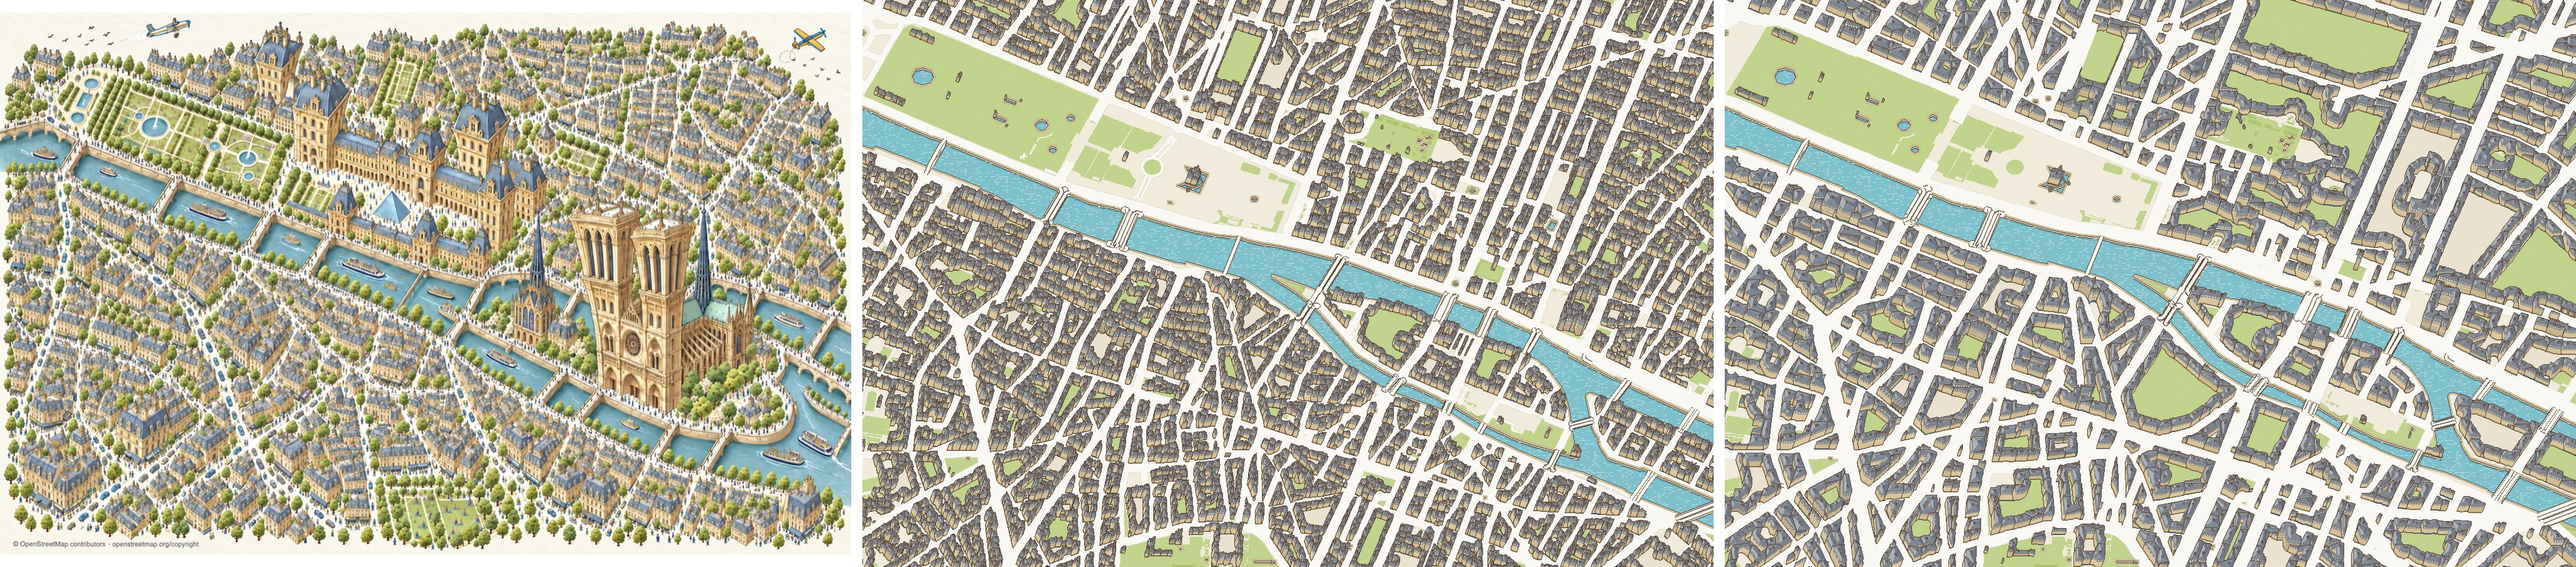
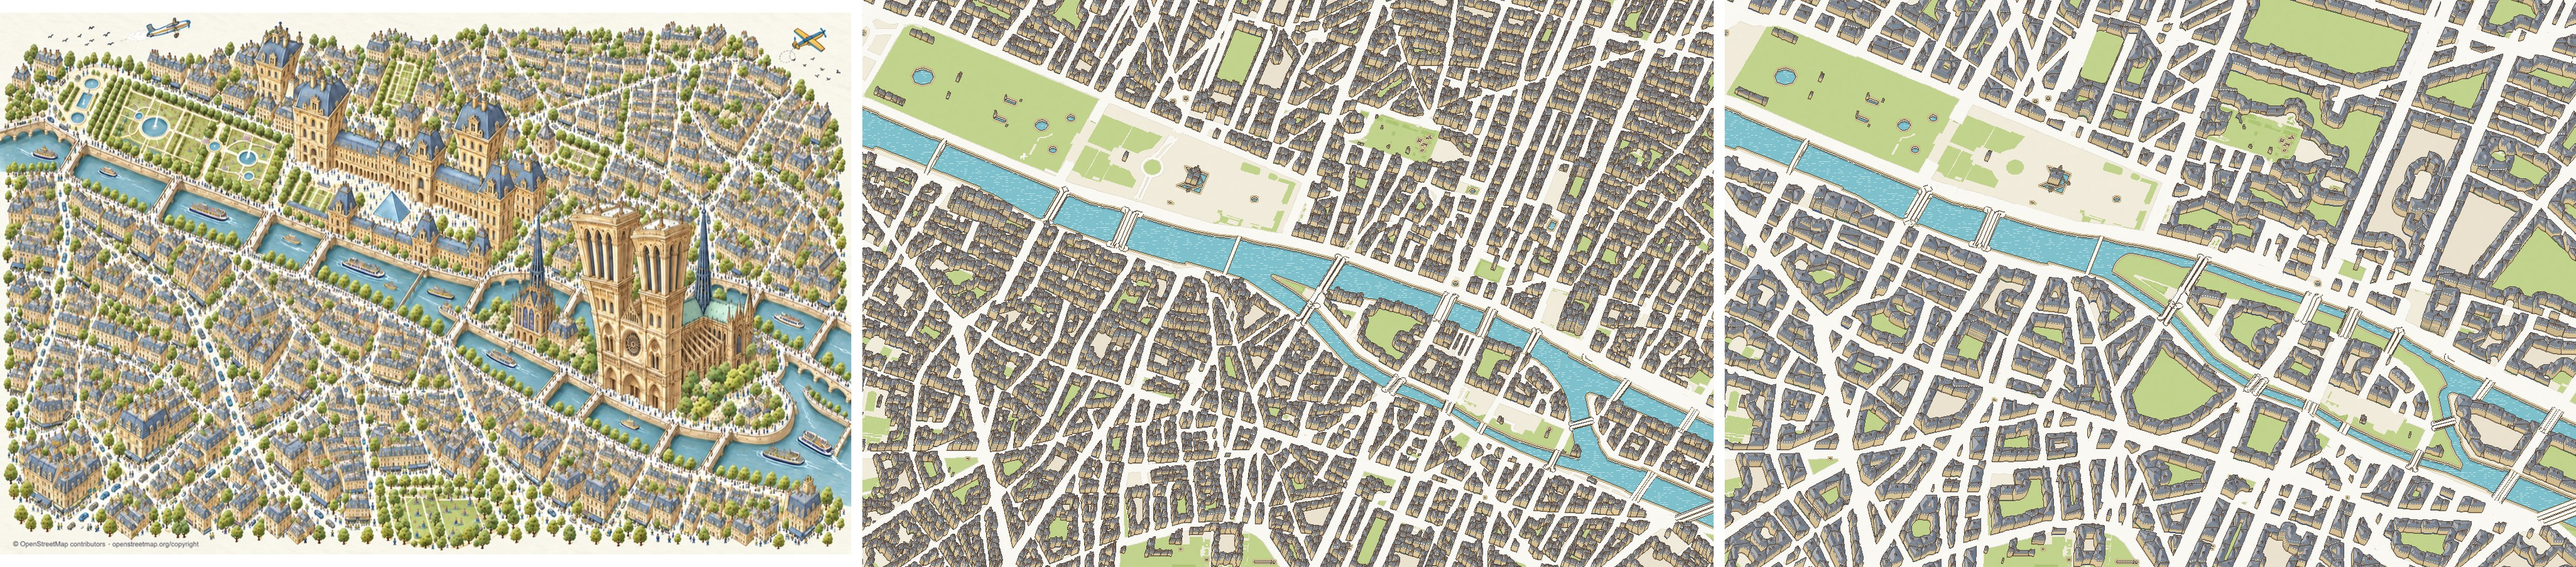
Karttaseppä → Codex: yleistyksen koepala v3 (Île de la Cité levennetty G:n tapaan, tarkka vesimaski; PT 08.2x)

Changed region(s): [[0.9047, 0.5625, 0.9671, 0.8438], [0.8111, 0.4375, 0.9047, 0.5625], [0.8423, 0.5625, 0.8735, 0.6562]]

diff --git a/posti/karttaseppa-codex-pariisi-yleistys-koepala-20261101.md b/posti/karttaseppa-codex-pariisi-yleistys-koepala-20261101.md
@@ -1,5 +1,7 @@
 # Karttaseppä → Codex: Pariisi, korttelien yleistys G:n tapaan: YKSI koepala G:n alueelta (1.11.2026)
 
+**PÄIVITYS klo 08.4x (PT 08.2x):** ohjekuvaksi vaihtui v3 (Cité levennetty) ja vesimaski tarkentui. Käytä vain v3:a.
+
 **Omistajan päätös 1.11. klo 08.07 (KK, PT 08.12):** omistaja vertasi G-kuvaa (`G-referenssi-owner-style-G-confirmed.jpg`)
 ja nykyistä pelikuvaa Citéstä. G on oikea suunta, ja nykyinen pelikuva ei ole hyvä. Linjaus:
 **talot isommiksi ja harvemmiksi korttelimassoiksi, kadut leveiksi ja valkoisiksi, pienet kujat pois, puut isoiksi riveiksi.**
@@ -12,9 +14,11 @@ G:n alue Tuileries'sta Louvren ja Citén kautta Île Saint-Louis'n länsikärkee
 1 m/px -paloissasi (pohjoinen ylös, sama pseudo-3D).
 
 ## Aineisto (tämä kansio, SHA256SUMS)
-- `ohje-pariisi-yleistys-koepala-v2.png` (1536 × 1024): **yleistetty geometria. Maalaa tämän päälle.** Kujat, huoltotiet
+- `ohje-pariisi-yleistys-koepala-v3.png` (1536 × 1024): **yleistetty geometria. Maalaa tämän päälle.** Kujat, huoltotiet
   ja kävelytiet on poistettu, kadut ovat noin 1,4× leveämpiä ja valkoisia, ja korttelit on yhdistetty isoiksi massoiksi
   (talot 40–60 m leveitä, raot alle 12 m suljettu). Seine, sillat, rannat ja pääkadut ovat oikeilla paikoillaan.
+  **Île de la Cité on levennetty G:n tapaan** noin 70 m veteen (vihreä reunakaista), ja joen haaroille jää vähintään
+  30 m. Kaksinkertainen Notre-Dame mahtuu siten saarelle, ja Sainte-Chapelle jää sen viereen kuten G:ssä.
 - `vesimaski-pariisi-yleistys-koepala.png`: valkoinen = vesi.
 - `vertailu-ohje-nyt-sama-rajaus.png`: nykyinen (yleistämätön) geometria samasta rajauksesta, vain vertailuun.
 - `vertailu-G-nyt-yleistys.jpg`: vasemmalla G, keskellä nykyinen geometria, oikealla tämä ohje.
@@ -25,6 +29,9 @@ G:n alue Tuileries'sta Louvren ja Citén kautta Île Saint-Louis'n länsikärkee
 ## Mitä maalataan
 - Kadut, Seine, rannat, sillat ja korttelien rajat ohjeesta. **Talot tehdään isoina kuten G:ssä, ei pikkutaloina:**
   korttelin reunalla on muutama iso talo, ei kymmeniä kapeita.
+- **Citén levennetty reuna** on puistoa ja rantaa isoine puineen kuten G:ssä. Saaren itäpää Notre-Damen ympärillä
+  jätetään avoimeksi aukioksi, koska suurennettu katedraali (2×, 200 m nykyisestä itään) tulee sen päälle.
+- **Tuileries kuten G:ssä:** isot pyöreät suihkulähdealtaat ja tiheät puurivit puiston reunoilla ja käytävillä.
 - **Puut maalataan tähän koepalaan** isoina riveinä kuten G:ssä: bulevardit, laiturit ja Tuileries. Myös
   sisäpihoille saa puita. Ihmiset, autot ja veneet jätetään pois, koska ne tulevat päälle.
 - Vettä vain vesimaskin alueelle.
